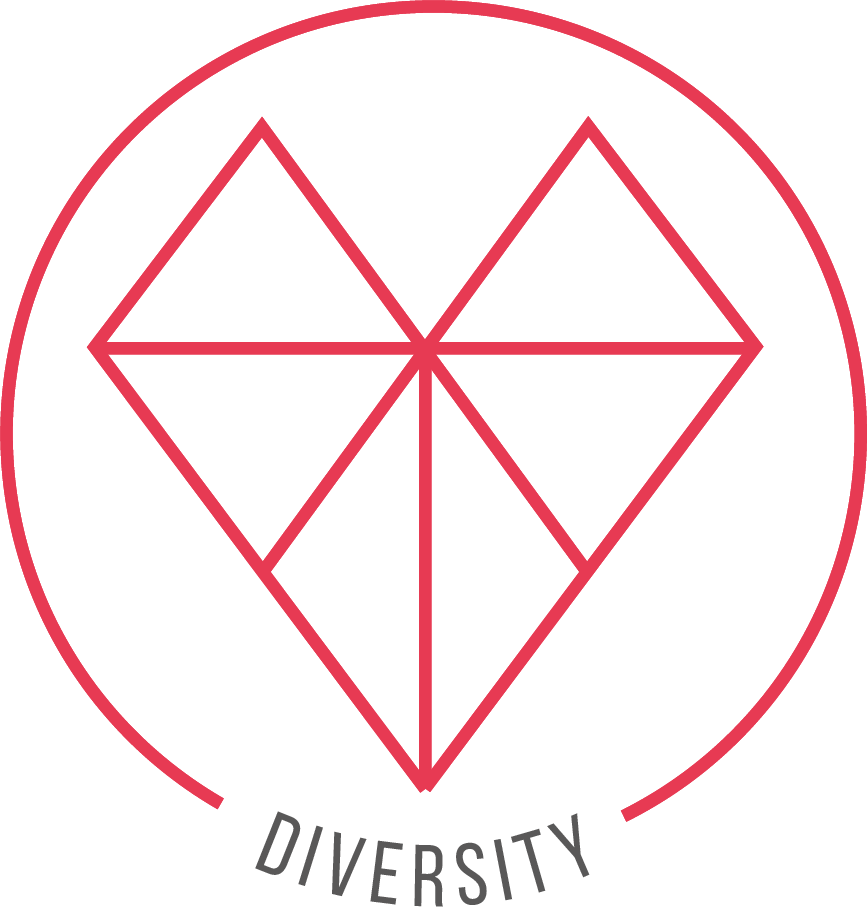
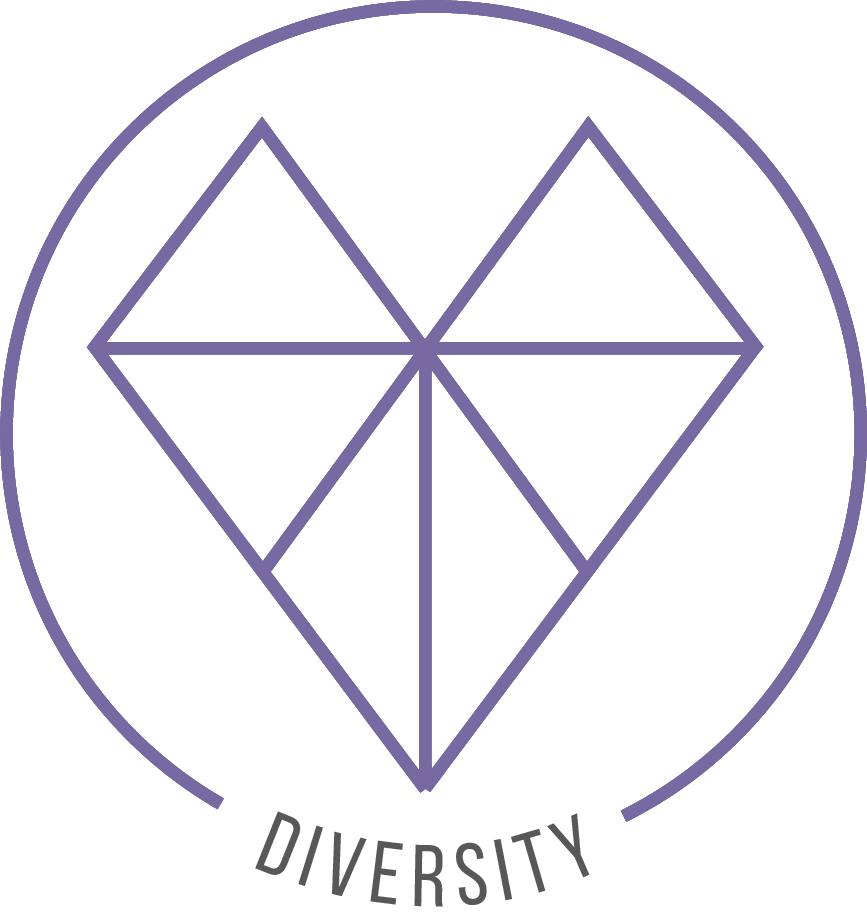
changed to new diversity color in exhibitor tab

diff --git a/src/components/ExhibitorList/index.js b/src/components/ExhibitorList/index.js
@@ -179,10 +179,9 @@ class ExhibitorList extends React.Component {
                     title={ "Exhibitors" }
                 />
                 {this.state.showModal ? (this.displayExhibitor(exhibitorToDisplay) ) : null}
-                <h2> Exhibitors </h2>
                 <div className = "filter-special">
                   <div id="quality" onMouseEnter = {() => this.cssShine('exhibitor-box')} onMouseLeave = {() => this.cssShineOff()} onClick ={()=>this.specialFilter('all')}><img src='/assets/quality.svg'/></div>
-                  <div id="diversity" onMouseEnter = {() => this.cssShine('red')} onMouseLeave = {() => this.cssShineOff()}onClick ={()=>this.specialFilter('diversity')}><img src='/assets/diversity.svg'/></div>
+                  <div id="diversity" onMouseEnter = {() => this.cssShine('purple')} onMouseLeave = {() => this.cssShineOff()}onClick ={()=>this.specialFilter('diversity')}><img src='/assets/diversity_a.svg'/></div>
                   <div id="sustainability" onMouseEnter = {() => this.cssShine('green')} onMouseLeave = {() => this.cssShineOff()}onClick ={()=>this.specialFilter('sustainability')}><img src='/assets/sustainability.svg'/></div>
                 </div>
                   <div className = "search-containter">
@@ -233,7 +232,7 @@ export default toExport;
 
 const ExhibitorItem = (props) => {
     let classname = props.exhibitor.sustainability == true ? " green" : "" ;
-        classname += props.exhibitor.diversity == true ? " red": "";
+        classname += props.exhibitor.diversity == true ? " purple": "";
 
   return (
     <div id={props.name} className = {"exhibitor-box " + classname} onClick={()=> props.showModal(props.exhibitor.company)}>

diff --git a/src/components/ExhibitorList/exhibitorlist.scss b/src/components/ExhibitorList/exhibitorlist.scss
@@ -146,9 +146,9 @@
           font-weight: bold;
         }
       }
-    .exhibitor-box.red{
+    .exhibitor-box.purple{
 			box-shadow: 1px 1px $light-grey;
-      border: 1px solid $grape;
+      border: 1px solid $diversity;
     }
     .exhibitor-box.green{
 			box-shadow: 1px 1px $light-grey;
@@ -159,7 +159,7 @@
  	      transform: scale(1.07);
       }
       .exhibitor-box.green::before,
-			.exhibitor-box.red::before,
+			.exhibitor-box.purple::before,
 			.shine-loop::before {
         position: absolute;
       	top: 0;
@@ -177,7 +177,7 @@
 				//animation-delay: 3s;
       }
       .exhibitor-box.green:hover::before,
-			.exhibitor-box.red:hover::before {
+			.exhibitor-box.purple:hover::before {
         -webkit-animation: shine 2.5s infinite;
       	animation: shine 2.5s infinite;
 				//-webkit-animation-delay: 3s;
@@ -227,6 +227,16 @@
 			height: 25px;
 		}
 	}
+
+.diversity-text {
+  color: $diversity;
+  font-weight: bold;
+}
+
+.green-text {
+  color: $melon;
+  font-weight:bold;
+}
 
 // flipped phone
 @media screen and (max-width: $breakpoint-mobile-flipped) {

diff --git a/src/layouts/Exhibitors/index.js b/src/layouts/Exhibitors/index.js
@@ -1,6 +1,7 @@
 import React from "react"
 import PropTypes from "prop-types"
 
+import Page from "../Page"
 import ExhibitorList from "../../components/ExhibitorList"
 import "./index.scss"
 
@@ -10,6 +11,8 @@ const Exhibitors = (props) => {
   return (
 
    <div className="content">
+    <Page { ...props } >
+    </Page>
     <div className= "Exhibitors-container">
     <ExhibitorList {...props}/>
      </div>

diff --git a/src/styles/_variables.scss b/src/styles/_variables.scss
@@ -2,6 +2,7 @@
 $grape: #e73953;
 $licorice: #2d2d2c;
 $melon: #00d790;
+$diversity: #776aa2;
 $background-color: #fafafa;
 $text-color-dark: $licorice;
 $text-color-light: #fafafa;
